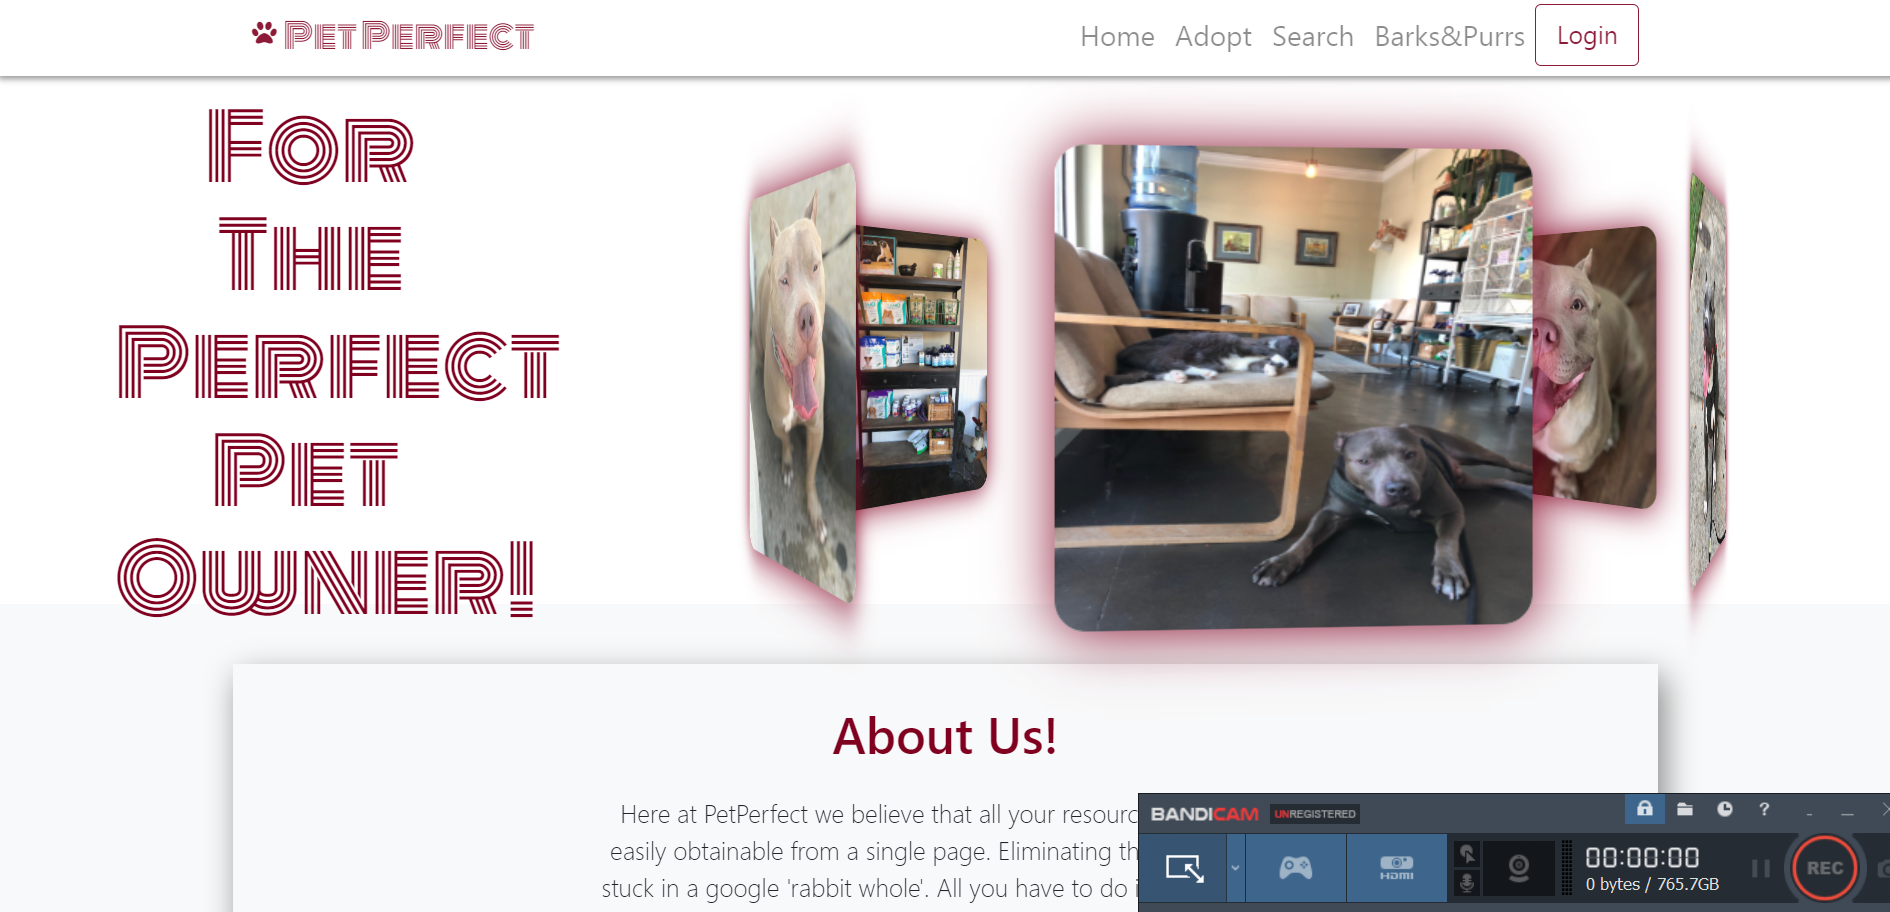
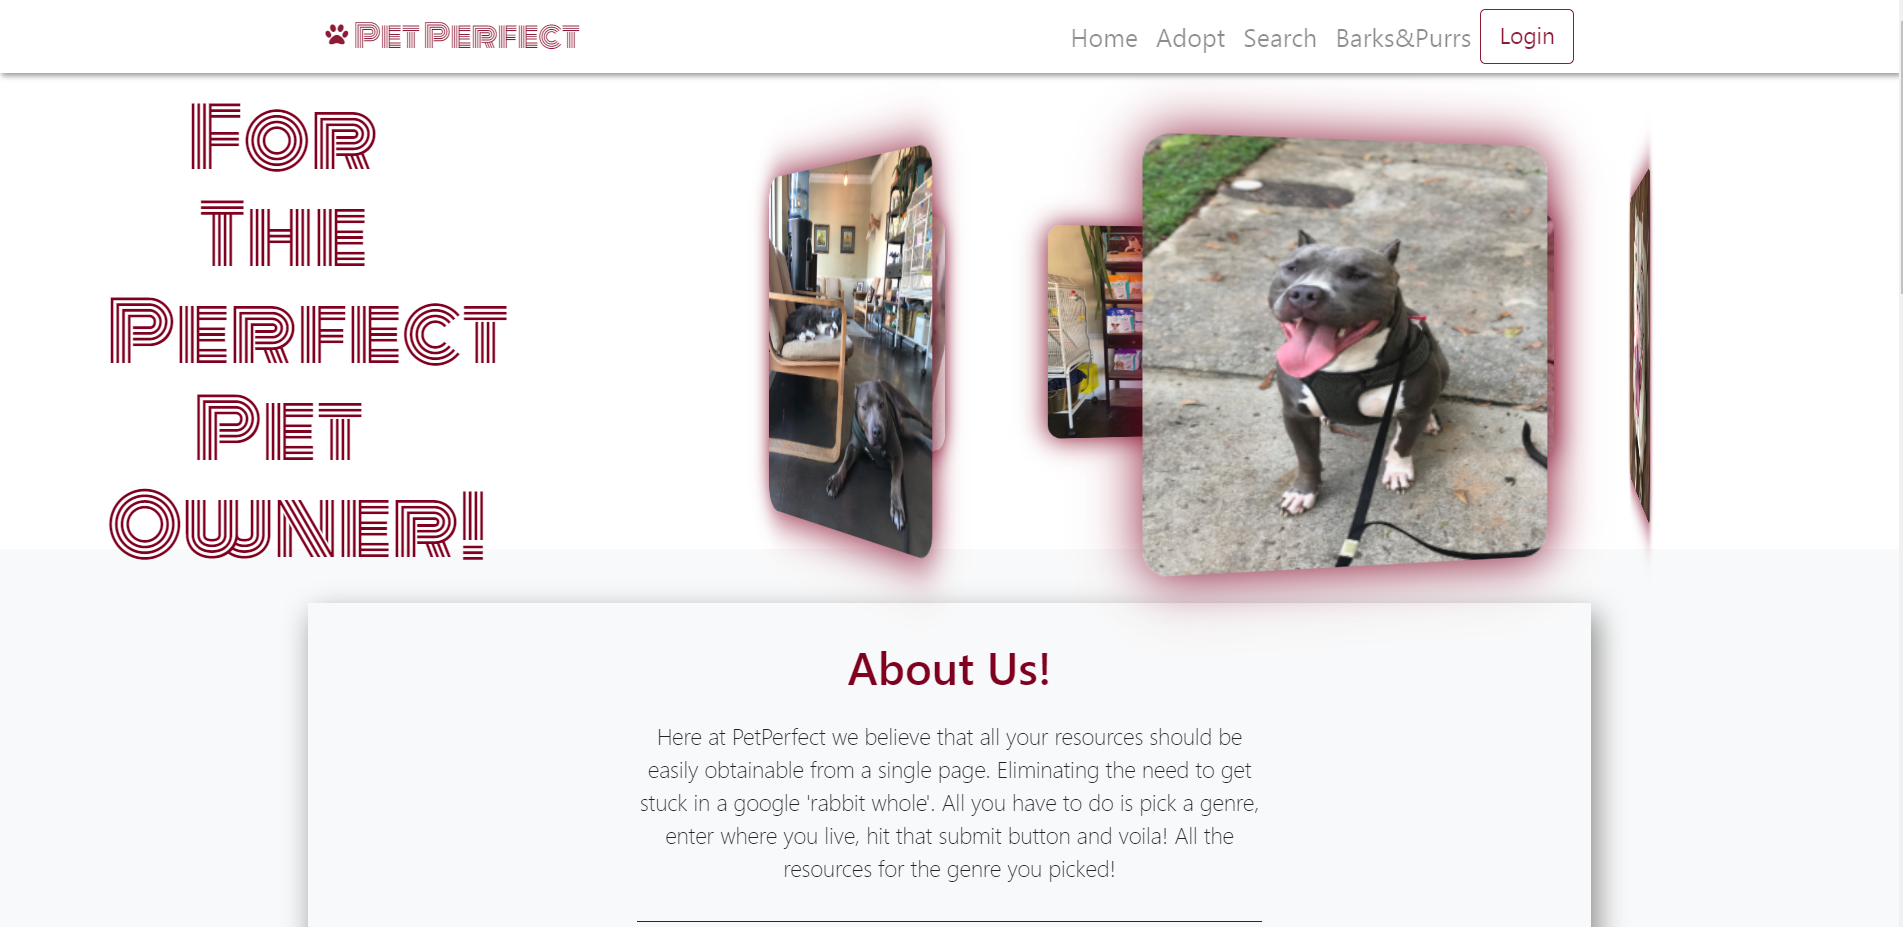
added more spheres for parallax

diff --git a/client/src/components/Parallax/style.css b/client/src/components/Parallax/style.css
@@ -99,23 +99,41 @@
     z-index: 80;
 }
 .parallax-figure-2{
-    width: 74px;
-    height: 74px;
+    width: 50px;
+    height: 50px;
     border-radius: 45px;
     top: 15%;
-    left: 70%;
+    left: 30%;
 
     background-image: linear-gradient(48deg,#1a47ea,#9713db 94%);
-    box-shadow: 0 0 60px 20px rgba(26,71,234,.38);
+    box-shadow: 0 0 50px 20px rgba(26,71,234,.38);
 }
 .parallax-figure-3{
-    
+    width: 40px;
+    height: 40px;
+    border-radius: 45px;
+    top: 40%;
+    left: 50%;
+    background-image: linear-gradient(-231deg,#0f8ee1,#00ee2e 92%);
+    box-shadow: 0 0 42px 21px rgba(0,238,46,.18);
 }
 .parallax-figure-4{
-    
+    width: 30px;
+    height: 30px;
+    border-radius: 45px;
+    top: 10%;
+    left: 60%;
+    background-image: linear-gradient(-231deg, #3f51b1 0%, #5a55ae 13%, #7b5fac 25%, #8f6aae 38%, #a86aa4 50%, #cc6b8e 62%, #f18271 75%, #f3a469 87%, #f7c978 100%);
+    box-shadow: 0 0 32px 20px rgba(248, 68, 188, 0.18);
 }
 .parallax-figure-5{
-    
+    width: 38px;
+    height: 38px;
+    border-radius: 45px;
+    top: 50%;
+    left: 20%;
+    background-image: linear-gradient( 135deg, #FDD819 10%, #E80505 100%);
+    box-shadow: 0 0 31px 20px rgba(248, 68, 68, 0.18);
 }
 
 

diff --git a/client/src/helpers/ParallaxHelper.js b/client/src/helpers/ParallaxHelper.js
@@ -42,8 +42,11 @@ export default class ParallaxHelper {
             this.enableParallax(e,"parallax-container", ".parallax-img-9", -35);
             this.enableParallax(e,"parallax-container", ".parallax-img-10", 33);
         }else if(GlobalStates.parallax.type === "figure"){
-            this.enableParallax(e,"parallax-container", ".parallax-figure-1", -30);
-            this.enableParallax(e,"parallax-container", ".parallax-figure-2", -30);
+            this.enableParallax(e,"parallax-container", ".parallax-figure-1", -10);
+            this.enableParallax(e,"parallax-container", ".parallax-figure-2", -20);
+            this.enableParallax(e,"parallax-container", ".parallax-figure-3", -80);
+            this.enableParallax(e,"parallax-container", ".parallax-figure-4", -100);
+            this.enableParallax(e,"parallax-container", ".parallax-figure-5", -30);
         }
 
     }

diff --git a/client/src/components/Parallax/index.js b/client/src/components/Parallax/index.js
@@ -26,7 +26,7 @@ class Parallax extends Component {
         super(props);
         this.state = {
             amount: 10,
-            amountFigure: 2,
+            amountFigure: 5,
             type: "img",
             canAppear: false,
             createElements: [],
@@ -70,8 +70,8 @@ class Parallax extends Component {
 
             if (!this.state.readyToDump) {
                 let figureArr = [];
-                for (let i = 0; i < this.state.amountFigure; i++) {
-                    figureArr.push(this.createElement(i += 1));
+                for (let i = 0; i <= this.state.amountFigure; i++) {
+                    figureArr.push(this.createElement(i));
                 }
                 this.setState({ createElements: figureArr, readyToDump: true });
                 this.startParallax();

diff --git a/client/src/pages/sections/ProjectContent.js b/client/src/pages/sections/ProjectContent.js
@@ -120,7 +120,7 @@ class ProjectContent extends Component {
 
                         </FlexBox>
                     </FlexContainer>
-                    <Parallax />
+                    <Parallax shapes={true} />
                 </FlexContainer>
                 
             </section>

diff --git a/client/src/pages/sections/ContactContent.js b/client/src/pages/sections/ContactContent.js
@@ -112,7 +112,7 @@ class ContactContent extends Component {
                     <Form
                         transition={this.props.transition}
                     />
-                    <Parallax />
+                    <Parallax shapes={true} />
 
                 </FlexContainer>
 
